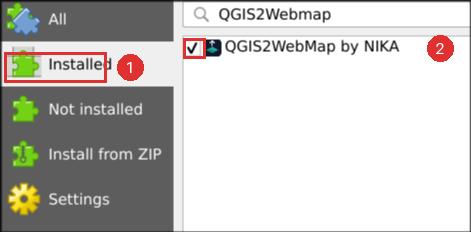
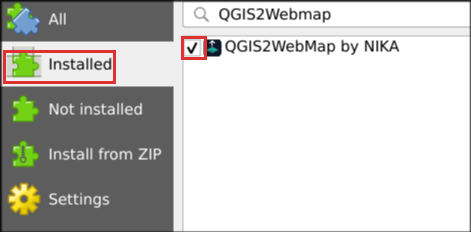
Lead first-export with the button strip and fix the Installed annotation

Changed region(s): [[0.0, 0.2112, 0.327, 0.3621], [0.8917, 0.1509, 0.9809, 0.2716], [0.3864, 0.1509, 0.4459, 0.2716]]

diff --git a/docs/first-export.md b/docs/first-export.md
@@ -3,8 +3,8 @@ title: Your first export
 description: >-
   A walkthrough from a styled QGIS project to a web map you can email, including live preview and the fidelity check.
 lead_image:
-  src: /images/dialog-map-tab.png
-  alt: The export dialog on its Map tab, with a map name, output mode and filepath set.
+  src: /images/export-05-live-preview.png
+  alt: The export dialog's button row - Live preview ticked, with Preview and Export beside it.
 ---
 
 # Your first export
@@ -75,8 +75,6 @@ break the drawing.
 
 **Preview** builds the map and opens it in your default browser. Nothing opens a
 browser on its own - only this button does.
-
-![The button row with the Live preview checkbox highlighted and a message saying the preview is open.](images/export-05-live-preview.png)
 
 With **Live preview** ticked, the map is served from your own machine and the tab
 updates by itself as you change settings, keeping your position on the map. Change
